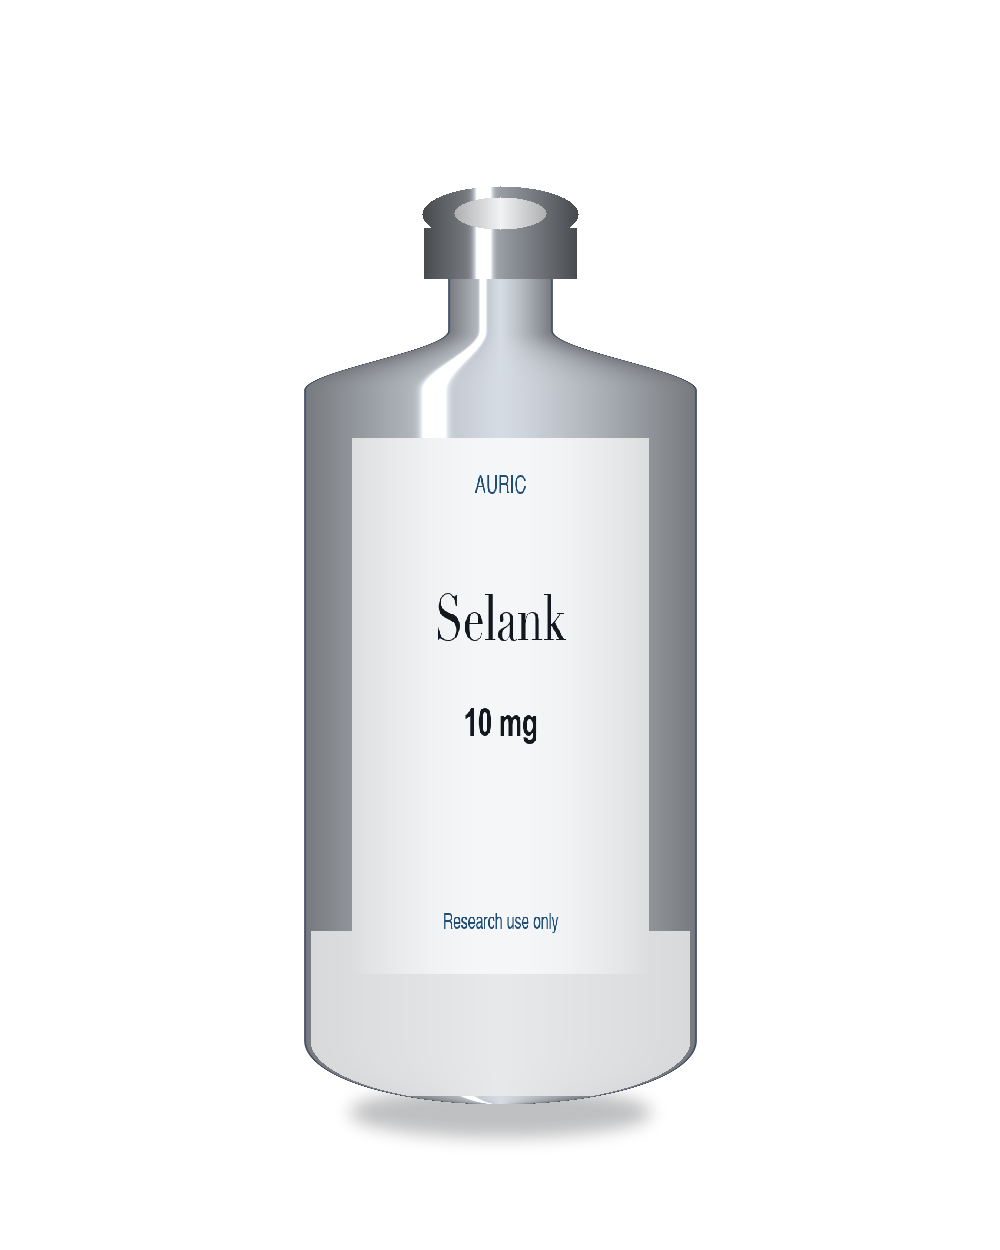
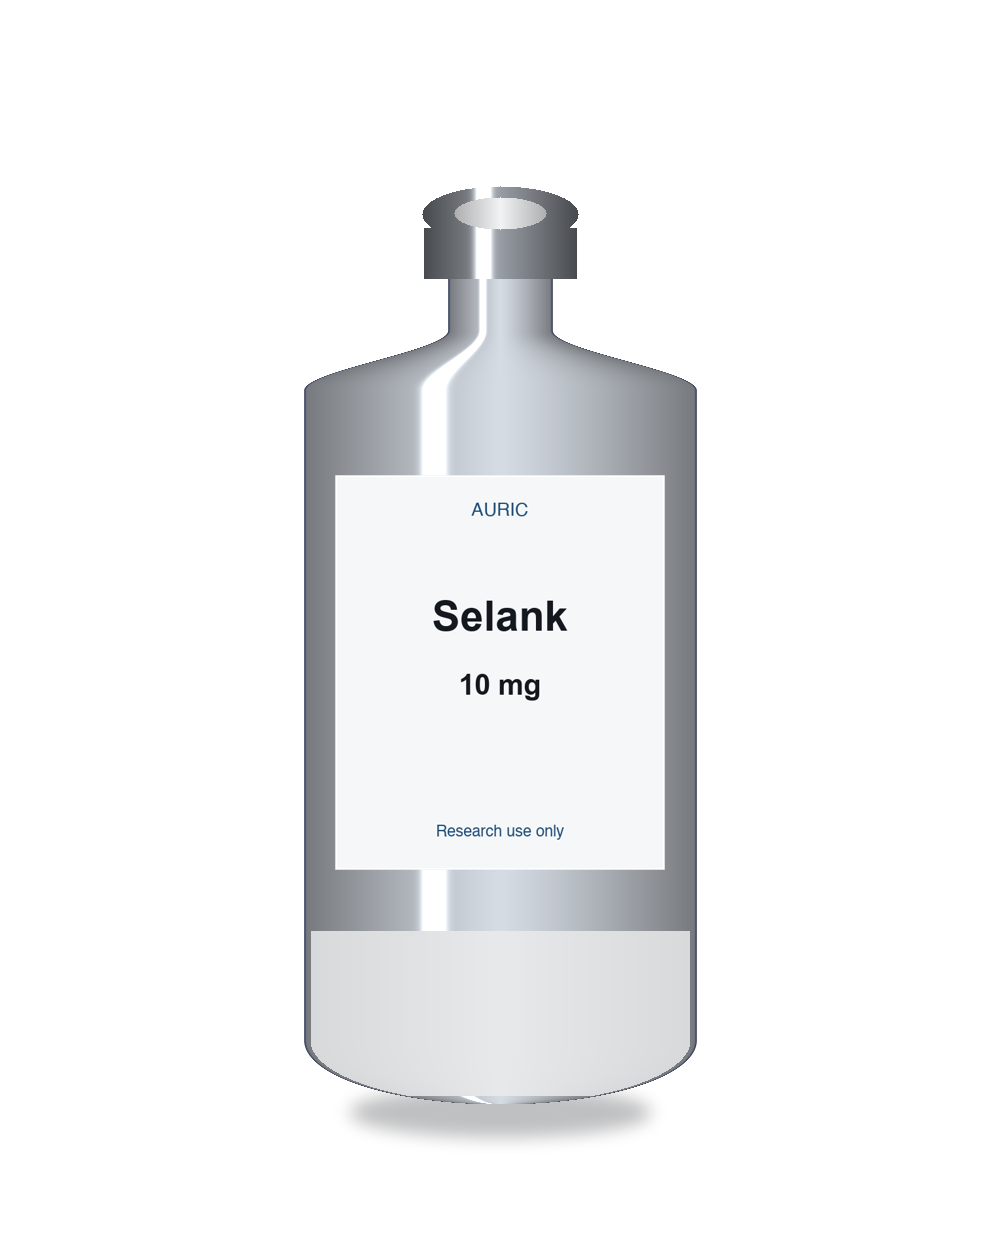
Keep vial names readable by pasting labels flat.

Changed region(s): [[0.31, 0.3432, 0.682, 0.7488], [0.434, 0.468, 0.558, 0.5928]]

diff --git a/scripts/shoot-vials.py b/scripts/shoot-vials.py
@@ -75,8 +75,8 @@ def make_label(name: str, size: str, note: str, kind: str) -> Image.Image:
         draw.text((x, y), text, font=face, fill=fill)
 
     center("AURIC", font(SANS, 28), 48, mute)
-    name_px = 72 if len(name) <= 8 else 52
-    center(name, font(SERIF, name_px), 168, ink)
+    name_px = 64 if len(name) <= 8 else 44
+    center(name, font(SANS_BOLD, name_px), 188, ink)
     y = 280
     if note:
         center(note, font(SERIF, 36), y, ink)
@@ -112,22 +112,6 @@ def render(sku: str, name: str, size: str, kind: str) -> Image.Image:
     br = np.where(cake, cake_tone, br)
     bg = np.where(cake, cake_tone + 1, bg)
     bb = np.where(cake, cake_tone + 3, bb)
-
-    label = np.asarray(make_label(name, size, NOTES.get(sku, ""), kind)).astype(np.float32)
-    lh, lw = label.shape[:2]
-    face = glass & (y > 430) & (y < 980) & (np.abs(rel) < 0.78) & (dist > 8)
-    u = (rel / 0.78 + 1.0) * 0.5
-    v = (y - 430.0) / (980.0 - 430.0)
-    ui = np.clip((u * (lw - 1)).astype(np.int32), 0, lw - 1)
-    vi = np.clip((v * (lh - 1)).astype(np.int32), 0, lh - 1)
-    sampled = label[vi, ui]
-    wrap = 0.82 + 0.18 * (1.0 - rel**2)
-    tint = sampled[:, :, :3] * wrap[:, :, None]
-    plate = (sampled[:, :, 3] / 255.0) * face
-    br = br * (1 - plate) + tint[:, :, 0] * plate
-    bg = bg * (1 - plate) + tint[:, :, 1] * plate
-    bb = bb * (1 - plate) + tint[:, :, 2] * plate
-
     rgb = np.dstack([br, bg, bb])
 
     # Crimp seen from just above: an ellipse, then a short aluminum skirt.
@@ -157,6 +141,9 @@ def render(sku: str, name: str, size: str, kind: str) -> Image.Image:
     mask = Image.fromarray((np.clip(alpha, 0, 1) * 255).astype(np.uint8), "L")
     cut = image.convert("RGBA")
     cut.putalpha(mask)
+    label = make_label(name, size, NOTES.get(sku, ""), kind)
+    label.thumbnail((340, 500))
+    cut.alpha_composite(label, (int(CX - label.width / 2), 470))
 
     shadow = Image.new("RGBA", (W, H), (0, 0, 0, 0))
     ImageDraw.Draw(shadow).ellipse((CX - 150, 1088, CX + 150, 1136), fill=(20, 24, 31, 70))
